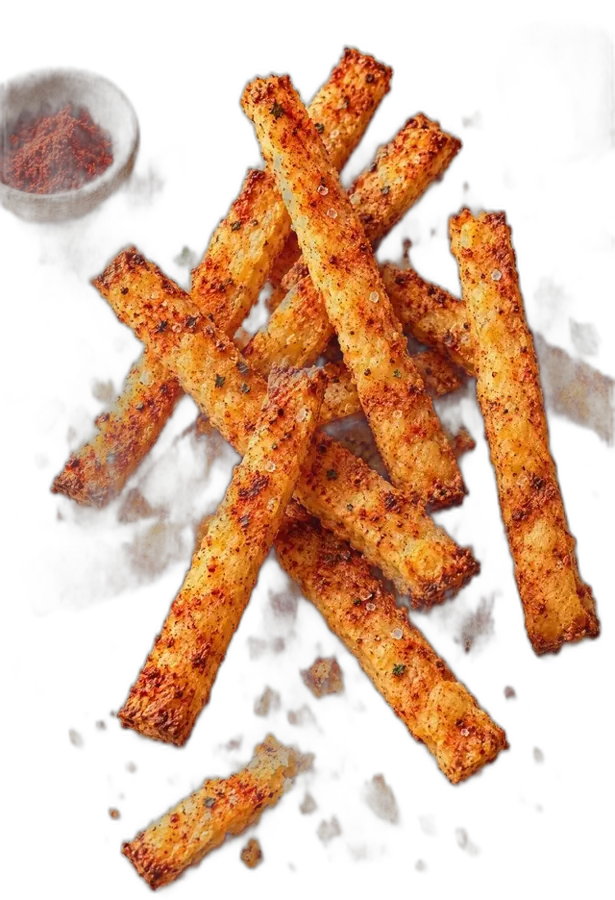
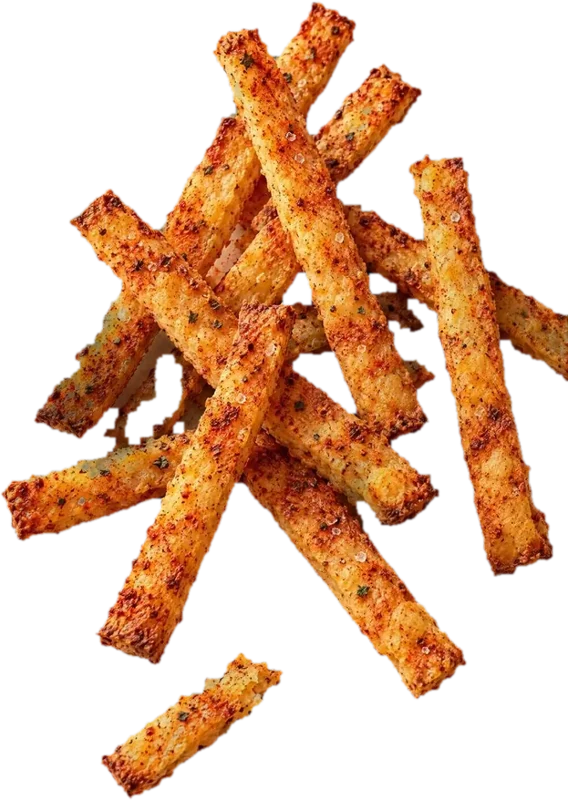
Cleaner scene imagery: framed hero photos, re-cut orbit cutouts with isnet
Claude-Session: https://claude.ai/code/session_01A3dvUUUzELa9LFT8AysL6o

diff --git a/components/RealScenes.tsx b/components/RealScenes.tsx
@@ -15,13 +15,13 @@ export function CrunchScene() {
       eyebrow="Recipe 02 · Crunchy & salty"
       title="from three potatoes to a real snap"
       mode="drop"
-      hero={{ src: "/cut/02.webp", alt: "Crisp baked potato chips from Recipe 02", w: 60, ratio: 1.116 }}
+      hero={{ src: "/recipes/02.webp", alt: "Crisp baked potato chips from Recipe 02", w: 36, ratio: 1.5, framed: true }}
       orbit={[
-        { src: "/cut/01.webp", x: 12, y: 24, w: 14, rot: -14, depth: 1.2 },
-        { src: "/cut/03.webp", x: 88, y: 22, w: 12, rot: 16, depth: 0.8 },
-        { src: "/cut/05.webp", x: 9, y: 76, w: 19, rot: -6, depth: 1.5 },
-        { src: "/cut/40.webp", x: 91, y: 74, w: 20, rot: 8, depth: 1 },
-        { src: "/cut/06.webp", x: 50, y: 9, w: 14, rot: 4, depth: 0.6 },
+        { src: "/cut/03.webp", x: 13, y: 26, w: 13, rot: -14, depth: 1.2 },
+        { src: "/cut/04.webp", x: 87, y: 24, w: 13, rot: 16, depth: 0.8 },
+        { src: "/cut/05.webp", x: 11, y: 76, w: 20, rot: -6, depth: 1.5 },
+        { src: "/cut/40.webp", x: 89, y: 75, w: 21, rot: 8, depth: 1 },
+        { src: "/cut/06.webp", x: 50, y: 9, w: 15, rot: 4, depth: 0.6 },
       ]}
       steps={[
         { h: "Start with three russets", p: "500 g russet potatoes (about 3 medium), scrubbed and left unpeeled." },
@@ -43,13 +43,11 @@ export function RibbonScene() {
       eyebrow="Recipe 37 · Fruit-forward sweet snacks"
       title="four whole fruits, one flexible ribbon"
       mode="unroll"
-      hero={{ src: "/cut/37.webp", alt: "Homemade fruit roll-up strips from Recipe 37", w: 44, ratio: 1.5 }}
+      hero={{ src: "/recipes/37.webp", alt: "Homemade fruit roll-up strips from Recipe 37", w: 36, ratio: 1.5, framed: true }}
       orbit={[
-        { src: "/cut/27.webp", x: 12, y: 26, w: 15, rot: -8, depth: 1.2 },
-        { src: "/cut/25.webp", x: 88, y: 24, w: 13, rot: 10, depth: 0.9 },
-        { src: "/cut/26.webp", x: 9, y: 76, w: 19, rot: -10, depth: 1.4 },
-        { src: "/cut/22.webp", x: 91, y: 76, w: 18, rot: 6, depth: 1 },
-        { src: "/cut/23.webp", x: 50, y: 8, w: 15, rot: 3, depth: 0.6 },
+        { src: "/cut/27.webp", x: 13, y: 28, w: 16, rot: -8, depth: 1.2 },
+        { src: "/cut/23.webp", x: 87, y: 26, w: 16, rot: 8, depth: 0.9 },
+        { src: "/cut/22.webp", x: 11, y: 77, w: 20, rot: -6, depth: 1.4 },
       ]}
       steps={[
         { h: "Blended smooth", p: "300 g apple, 250 g strawberries, 150 g blueberries and 10 g lemon juice — no honey, syrup or added sugar. Heated to 160°F (71°C), then cooled 5 minutes." },

diff --git a/components/PhotoScene.tsx b/components/PhotoScene.tsx
@@ -14,7 +14,7 @@ type Props = {
   eyebrow: string;
   title: string;
   steps: Step[];
-  hero: { src: string; alt: string; w: number; ratio: number };
+  hero: { src: string; alt: string; w: number; ratio: number; framed?: boolean };
   mode: "drop" | "unroll";
   orbit: Orbit[];
   chips: string[];
@@ -140,15 +140,14 @@ export function PhotoScene({ id, bg, eyebrow, title, steps, hero, mode, orbit, c
               </div>
             ))}
             <div className="absolute left-1/2 top-1/2 -translate-x-1/2 -translate-y-1/2" style={{ width: `${hero.w}%` }}>
-              <div data-hero>
+              <div data-hero className={hero.framed ? "sticker !rounded-[1.5rem] bg-paper-2 p-1.5 shadow-[8px_8px_0_var(--ink)]" : undefined}>
                 <Image
                   src={hero.src}
                   alt={hero.alt}
-                  width={900}
-                  height={Math.round(900 * hero.ratio)}
-                  sizes="(min-width:1024px) 38vw, 70vw"
-                  priority={false}
-                  className="h-auto w-full drop-shadow-[0_26px_22px_rgba(30,11,43,0.45)]"
+                  width={640}
+                  height={Math.round(640 * hero.ratio)}
+                  sizes="(min-width:1024px) 30vw, 60vw"
+                  className={hero.framed ? "h-auto w-full rounded-[1.1rem]" : "h-auto w-full drop-shadow-[0_26px_22px_rgba(30,11,43,0.45)]"}
                 />
               </div>
             </div>
